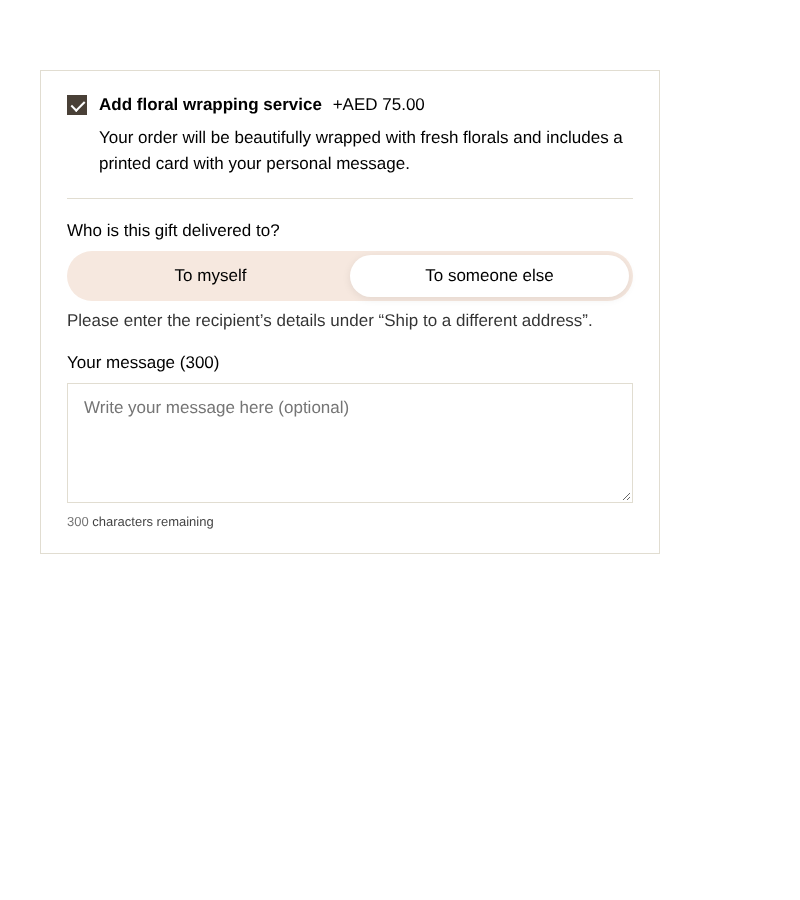
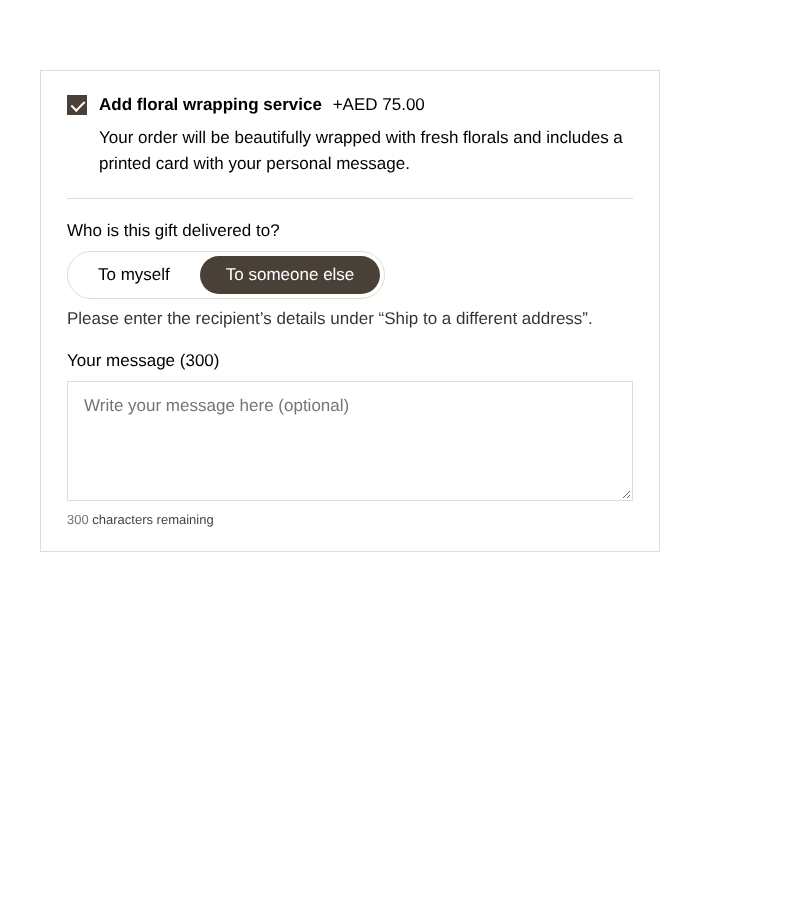
Gift option: compact rounded switcher in the Place Order button colour
Claude-Session: https://claude.ai/code/session_011C48dKphzw49KqSA6i4iDS

Changed region(s): [[0.0625, 0.28, 0.8125, 0.4667], [0.0938, 0.56, 0.2812, 0.5911]]

diff --git a/arosa-gift-wrap/arosa-gift-wrap.php b/arosa-gift-wrap/arosa-gift-wrap.php
@@ -286,17 +286,18 @@ final class Arosa_Gift_Wrap {
 .arosa-gift__panel{margin-top:22px;padding-top:22px;border-top:1px solid var(--ag-line)}
 .arosa-gift__panel[hidden],.arosa-gift__hint[hidden]{display:none!important}
 .arosa-gift__label{display:block;margin:0 0 10px!important}
-.arosa-gift__toggle{display:flex;padding:4px;background:var(--ag-soft);border-radius:999px;margin-bottom:22px}
-.arosa-gift__toggle label{flex:1;margin:0!important;cursor:pointer;position:relative}
+.arosa-gift__toggle{display:inline-flex;max-width:100%;gap:4px;padding:4px;background:#fff;border:1px solid var(--ag-line);border-radius:999px;margin-bottom:22px}
+.arosa-gift__toggle label{flex:0 0 auto;margin:0!important;cursor:pointer;position:relative}
 .arosa-gift__toggle input{position:absolute;opacity:0;width:1px;height:1px}
-.arosa-gift__toggle span{display:block;text-align:center;white-space:nowrap;padding:11px 10px;border-radius:999px;transition:background .2s,box-shadow .2s}
-.arosa-gift__toggle input:checked+span{background:#fff;box-shadow:0 2px 8px rgba(0,0,0,.08)}
+.arosa-gift__toggle span{display:block;text-align:center;white-space:nowrap;padding:9px 26px;border-radius:999px;transition:background .2s,color .2s}
+.arosa-gift__toggle label:hover span{background:var(--ag-soft)}
+.woocommerce-checkout .arosa-gift .arosa-gift__toggle input:checked+span{background:var(--ag-brown)!important;color:#fff!important}
 .arosa-gift__toggle input:focus-visible+span{outline:2px solid var(--ag-brown);outline-offset:1px}
 .arosa-gift__hint{margin:-12px 0 22px!important;opacity:.8}
 .woocommerce form.woocommerce-checkout .arosa-gift textarea{width:100%;min-height:120px;padding:14px 16px;border:1px solid var(--ag-line);resize:vertical;background:#fff}
 .woocommerce-checkout .arosa-gift .arosa-gift__count,.woocommerce-checkout .arosa-gift .arosa-gift__count *{font-size:13px!important;opacity:.75}
 .arosa-gift__count{margin:6px 0 0!important}
-@media (max-width:767px){.arosa-gift{padding:20px 16px}.arosa-gift__desc{padding-inline-start:0}.woocommerce-checkout .arosa-gift .arosa-gift__toggle span{font-size:15px!important}}
+@media (max-width:767px){.arosa-gift{padding:20px 16px}.arosa-gift__desc{padding-inline-start:0}.woocommerce-checkout .arosa-gift .arosa-gift__toggle span{font-size:15px!important;padding:9px 18px}}
 CSS;
 	}
 
